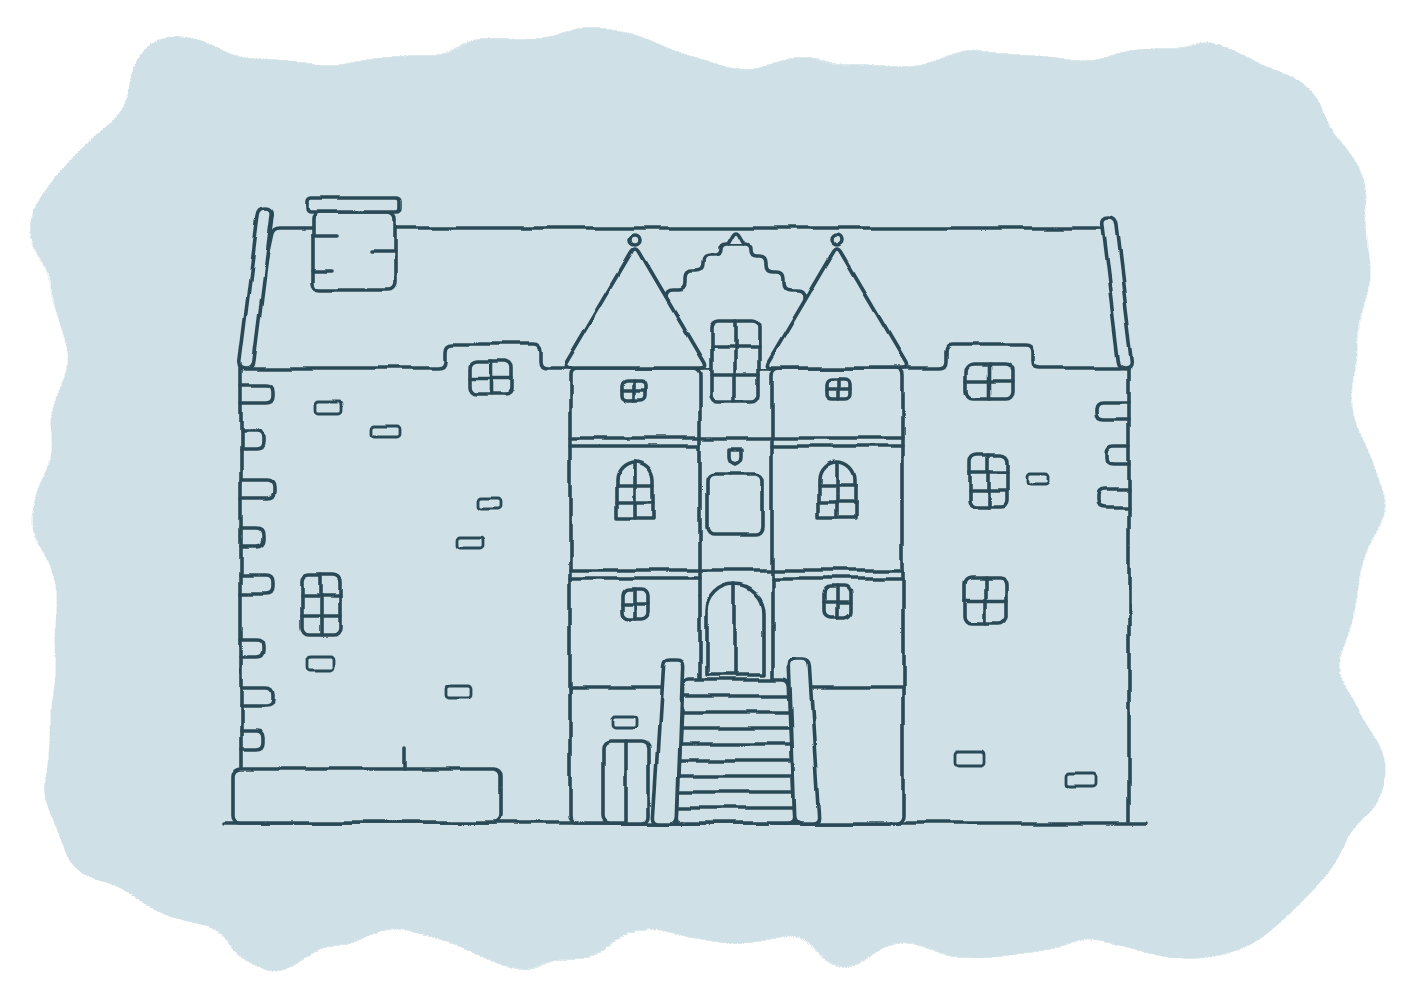
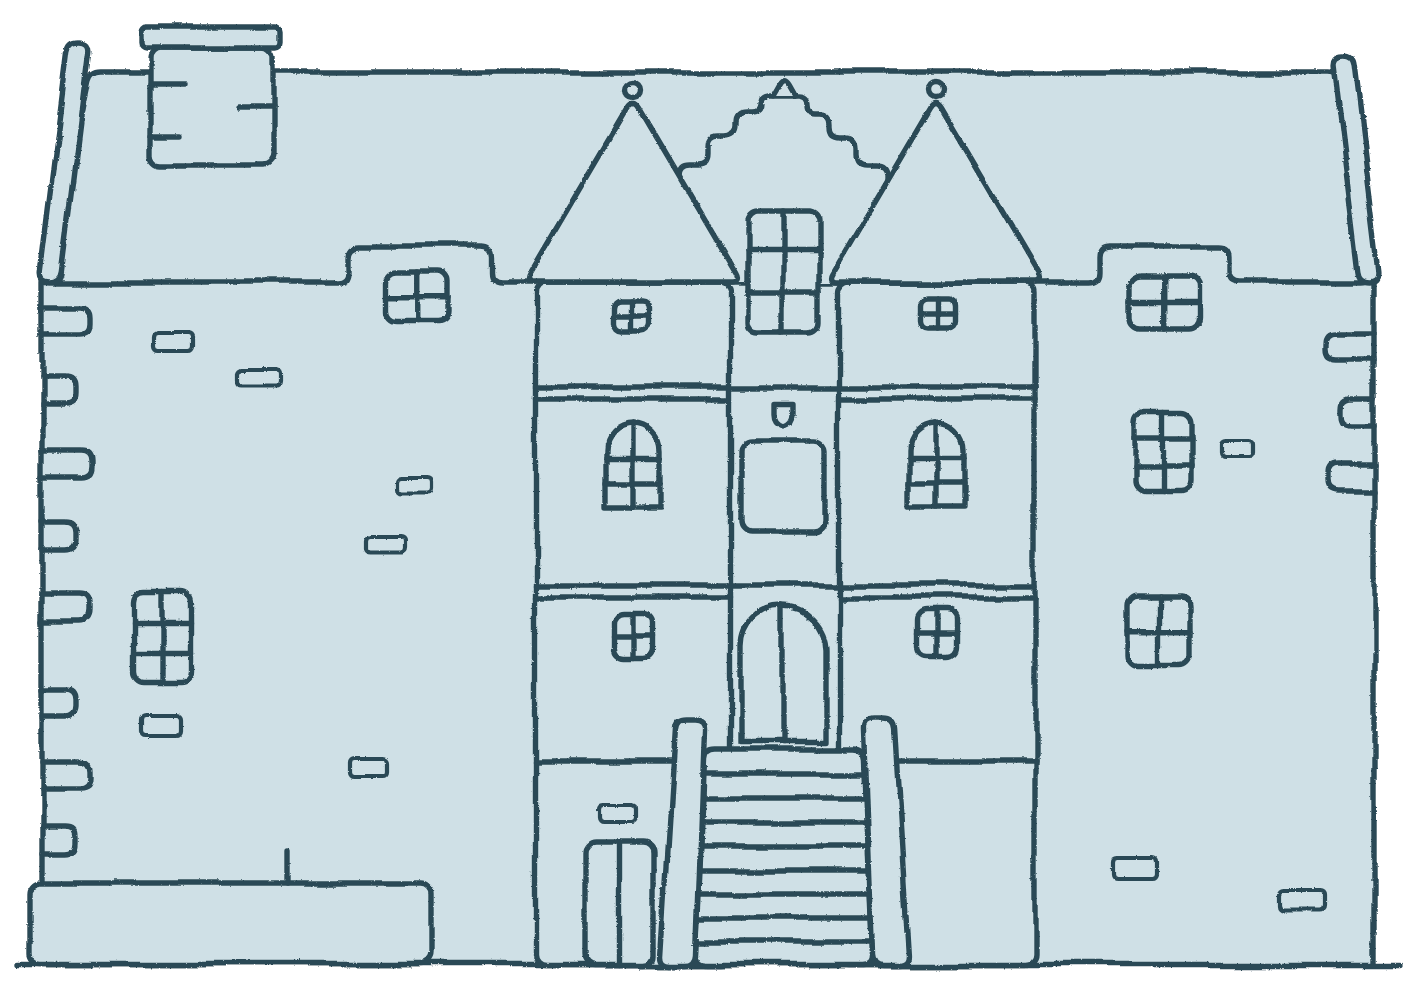
Castle without the wash, filled light blue
Claude-Session: https://claude.ai/code/session_01ESVYgPo5vBNY8aSJEtBJia

diff --git a/wedding/travel.html b/wedding/travel.html
@@ -17,12 +17,12 @@ try {
 <link rel="preconnect" href="https://fonts.googleapis.com">
 <link rel="preconnect" href="https://fonts.gstatic.com" crossorigin>
 <link href="https://fonts.googleapis.com/css2?family=Instrument+Serif:ital@0;1&family=Italianno&family=Jost:wght@300;400;500&display=swap" rel="stylesheet">
-<link rel="stylesheet" href="style.css?v=20261115o">
+<link rel="stylesheet" href="style.css?v=20261115p">
 </head>
 <body>
 <main>
   <header>
-    <img class="castle" src="img/castle.png" alt="" width="1414" height="1000">
+    <img class="castle" src="img/castle.png" alt="" width="1422" height="994">
     <p class="formal"><span data-lang="en">You are hereby invited to the wedding of</span><span data-lang="es">Tenemos el placer de invitaros a la boda de</span></p>
     <h1 class="names"><a href="index.html"><span class="first">Cameron</span><span class="last">Allan</span><span class="and"><span data-lang="en">and</span><span data-lang="es">y</span></span><span class="first">Annie</span><span class="last">MacConnachie</span></a></h1>
     <div class="eyebrow"><span data-lang="en">Saturday 12th June 2027</span><span data-lang="es">Sábado, 12 de junio de 2027</span> · Rowallan Castle</div>
@@ -61,7 +61,7 @@ try {
       <div class="card stay"><h3>Glasgow Marriott</h3><p class="stay-address">500 Argyle Street, Glasgow G3 8RR</p><p class="stay-links"><a href="tel:+441412265577">0141 226 5577</a> · <a href="https://www.marriott.co.uk/hotels/travel/gladt-glasgow-marriott-hotel/" target="_blank" rel="noopener"><span data-lang="en">Website</span><span data-lang="es">Web</span></a> · <a href="https://www.google.com/maps/search/?api=1&amp;query=Glasgow+Marriott%2C+500+Argyle+Street%2C+Glasgow+G3+8RR" target="_blank" rel="noopener"><span data-lang="en">Map</span><span data-lang="es">Mapa</span></a></p></div>
   </section>
 </main>
-<script src="common.js?v=20261115o"></script>
+<script src="common.js?v=20261115p"></script>
 <script>
 // If this household has been offered a room, show it here too.
 let roomData = null;

diff --git a/wedding/details.html b/wedding/details.html
@@ -17,12 +17,12 @@ try {
 <link rel="preconnect" href="https://fonts.googleapis.com">
 <link rel="preconnect" href="https://fonts.gstatic.com" crossorigin>
 <link href="https://fonts.googleapis.com/css2?family=Instrument+Serif:ital@0;1&family=Italianno&family=Jost:wght@300;400;500&display=swap" rel="stylesheet">
-<link rel="stylesheet" href="style.css?v=20261115o">
+<link rel="stylesheet" href="style.css?v=20261115p">
 </head>
 <body>
 <main>
   <header>
-    <img class="castle" src="img/castle.png" alt="" width="1414" height="1000">
+    <img class="castle" src="img/castle.png" alt="" width="1422" height="994">
     <p class="formal"><span data-lang="en">You are hereby invited to the wedding of</span><span data-lang="es">Tenemos el placer de invitaros a la boda de</span></p>
     <h1 class="names"><a href="index.html"><span class="first">Cameron</span><span class="last">Allan</span><span class="and"><span data-lang="en">and</span><span data-lang="es">y</span></span><span class="first">Annie</span><span class="last">MacConnachie</span></a></h1>
     <div class="eyebrow"><span data-lang="en">Saturday 12th June 2027</span><span data-lang="es">Sábado, 12 de junio de 2027</span> · Rowallan Castle</div>
@@ -33,9 +33,9 @@ try {
   <!-- One section per event this household is invited to (filled in by details.js) -->
   <div id="events"><div class="loading" role="status"><span class="spinner" aria-hidden="true"></span></div></div>
 </main>
-<script src="common.js?v=20261115o"></script>
-<script src="events.js?v=20261115o"></script>
-<script src="details.js?v=20261115o"></script>
+<script src="common.js?v=20261115p"></script>
+<script src="events.js?v=20261115p"></script>
+<script src="details.js?v=20261115p"></script>
 
 </body>
 </html>

diff --git a/wedding/rsvp.html b/wedding/rsvp.html
@@ -17,12 +17,12 @@ try {
 <link rel="preconnect" href="https://fonts.googleapis.com">
 <link rel="preconnect" href="https://fonts.gstatic.com" crossorigin>
 <link href="https://fonts.googleapis.com/css2?family=Instrument+Serif:ital@0;1&family=Italianno&family=Jost:wght@300;400;500&display=swap" rel="stylesheet">
-<link rel="stylesheet" href="style.css?v=20261115o">
+<link rel="stylesheet" href="style.css?v=20261115p">
 </head>
 <body>
 <main>
   <header>
-    <img class="castle" src="img/castle.png" alt="" width="1414" height="1000">
+    <img class="castle" src="img/castle.png" alt="" width="1422" height="994">
     <p class="formal"><span data-lang="en">You are hereby invited to the wedding of</span><span data-lang="es">Tenemos el placer de invitaros a la boda de</span></p>
     <h1 class="names"><a href="index.html"><span class="first">Cameron</span><span class="last">Allan</span><span class="and"><span data-lang="en">and</span><span data-lang="es">y</span></span><span class="first">Annie</span><span class="last">MacConnachie</span></a></h1>
     <div class="eyebrow"><span data-lang="en">Saturday 12th June 2027</span><span data-lang="es">Sábado, 12 de junio de 2027</span> · Rowallan Castle</div>
@@ -87,8 +87,8 @@ try {
     </div>
   </section>
 </main>
-<script src="common.js?v=20261115o"></script>
-<script src="rsvp.js?v=20261115o"></script>
+<script src="common.js?v=20261115p"></script>
+<script src="rsvp.js?v=20261115p"></script>
 <script>
 // Button/loading text set from JS so they follow the language switch.
 function setStaticRsvpText() { if (!$('submit-btn').disabled) $('submit-btn').textContent = t('send'); $('loading-text').textContent = t('loading1'); }

diff --git a/wedding/index.html b/wedding/index.html
@@ -17,12 +17,12 @@ try {
 <link rel="preconnect" href="https://fonts.googleapis.com">
 <link rel="preconnect" href="https://fonts.gstatic.com" crossorigin>
 <link href="https://fonts.googleapis.com/css2?family=Instrument+Serif:ital@0;1&family=Italianno&family=Jost:wght@300;400;500&display=swap" rel="stylesheet">
-<link rel="stylesheet" href="style.css?v=20261115o">
+<link rel="stylesheet" href="style.css?v=20261115p">
 </head>
 <body>
 <main>
   <header>
-    <img class="castle" src="img/castle.png" alt="" width="1414" height="1000">
+    <img class="castle" src="img/castle.png" alt="" width="1422" height="994">
     <p class="formal"><span data-lang="en">You are hereby invited to the wedding of</span><span data-lang="es">Tenemos el placer de invitaros a la boda de</span></p>
     <h1 class="names"><a href="index.html"><span class="first">Cameron</span><span class="last">Allan</span><span class="and"><span data-lang="en">and</span><span data-lang="es">y</span></span><span class="first">Annie</span><span class="last">MacConnachie</span></a></h1>
     <div class="eyebrow"><span data-lang="en">Saturday 12th June 2027</span><span data-lang="es">Sábado, 12 de junio de 2027</span> · Rowallan Castle</div>
@@ -44,7 +44,7 @@ try {
     <p class="panel-more"><a href="details.html"><span data-lang="en">Times, places &amp; everything else →</span><span data-lang="es">Horarios, lugares y todo lo demás →</span></a></p>
   </section>
 </main>
-<script src="common.js?v=20261115o"></script>
+<script src="common.js?v=20261115p"></script>
 <script>
 // Cross-fade through the photos listed in data-photos; tap a photo to skip ahead.
 (function () {

diff --git a/wedding/faqs.html b/wedding/faqs.html
@@ -17,12 +17,12 @@ try {
 <link rel="preconnect" href="https://fonts.googleapis.com">
 <link rel="preconnect" href="https://fonts.gstatic.com" crossorigin>
 <link href="https://fonts.googleapis.com/css2?family=Instrument+Serif:ital@0;1&family=Italianno&family=Jost:wght@300;400;500&display=swap" rel="stylesheet">
-<link rel="stylesheet" href="style.css?v=20261115o">
+<link rel="stylesheet" href="style.css?v=20261115p">
 </head>
 <body>
 <main>
   <header>
-    <img class="castle" src="img/castle.png" alt="" width="1414" height="1000">
+    <img class="castle" src="img/castle.png" alt="" width="1422" height="994">
     <p class="formal"><span data-lang="en">You are hereby invited to the wedding of</span><span data-lang="es">Tenemos el placer de invitaros a la boda de</span></p>
     <h1 class="names"><a href="index.html"><span class="first">Cameron</span><span class="last">Allan</span><span class="and"><span data-lang="en">and</span><span data-lang="es">y</span></span><span class="first">Annie</span><span class="last">MacConnachie</span></a></h1>
     <div class="eyebrow"><span data-lang="en">Saturday 12th June 2027</span><span data-lang="es">Sábado, 12 de junio de 2027</span> · Rowallan Castle</div>
@@ -43,7 +43,7 @@ try {
     <details><summary><span data-lang="en">Who do I contact with questions?</span><span data-lang="es">¿A quién puedo preguntar si tengo dudas?</span></summary><p><span data-lang="en">[Placeholder]</span><span data-lang="es">[Texto provisional]</span></p></details>
   </section>
 </main>
-<script src="common.js?v=20261115o"></script>
+<script src="common.js?v=20261115p"></script>
 
 </body>
 </html>

diff --git a/wedding/style.css b/wedding/style.css
@@ -423,14 +423,14 @@ main, #gate { border-width:14px; box-shadow:inset 0 0 0 7px var(--paper), inset 
    On narrower screens the castle sits centred above the title instead. */
 .castle { display:block; height:auto; pointer-events:none; user-select:none; }
 @media (min-width:1200px) {
-  main > header, #gate > header { display:grid; grid-template-columns:1fr max-content minmax(200px, 360px) 1fr; align-items:center; column-gap:0; }
+  main > header, #gate > header { display:grid; grid-template-columns:1fr max-content minmax(170px, 290px) 1fr; align-items:center; column-gap:0; }
   main > header > *, #gate > header > * { grid-column:1 / -1; }
   main > header .formal, #gate > header .formal { grid-column:2; grid-row:1; text-align:left; margin-left:0; margin-right:0; }
   main > header .names, #gate > header .names { grid-column:2; grid-row:2; text-align:left; }
   main > header .castle, #gate > header .castle { grid-column:3; grid-row:1 / 3; width:calc(100% - clamp(20px, 3vw, 36px)); margin-left:clamp(20px, 3vw, 36px); }
 }
-@media (max-width:1199px) { .castle { width:min(336px, 74%); margin:0 auto 14px; } }
-@media (max-width:520px) { .castle { width:min(336px, 92%); } }
+@media (max-width:1199px) { .castle { width:min(250px, 56%); margin:0 auto 14px; } }
+@media (max-width:520px) { .castle { width:min(250px, 72%); } }
 
 /* Map framed like the card: thick duck-egg border with a fine inner rule */
 .map-frame { border:6px solid var(--duck); padding:7px; background:var(--paper); box-shadow:inset 0 0 0 4px var(--paper), inset 0 0 0 5.5px var(--duck); }

diff --git a/wedding/common.js b/wedding/common.js
@@ -129,7 +129,7 @@ function showGate() {
   const gate = document.createElement('div');
   gate.id = 'gate';
   gate.innerHTML = `
-    <header><img class="castle" src="img/castle.png" alt="" width="1414" height="1000">
+    <header><img class="castle" src="img/castle.png" alt="" width="1422" height="994">
     <p class="formal"><span data-lang="en">You are hereby invited to the wedding of</span><span data-lang="es">Tenemos el placer de invitaros a la boda de</span></p>
     <h1 class="names"><span class="first">Cameron</span><span class="last">Allan</span><span class="and"><span data-lang="en">and</span><span data-lang="es">y</span></span><span class="first">Annie</span><span class="last">MacConnachie</span></h1></header>
     <form class="card" id="gate-form" novalidate>
